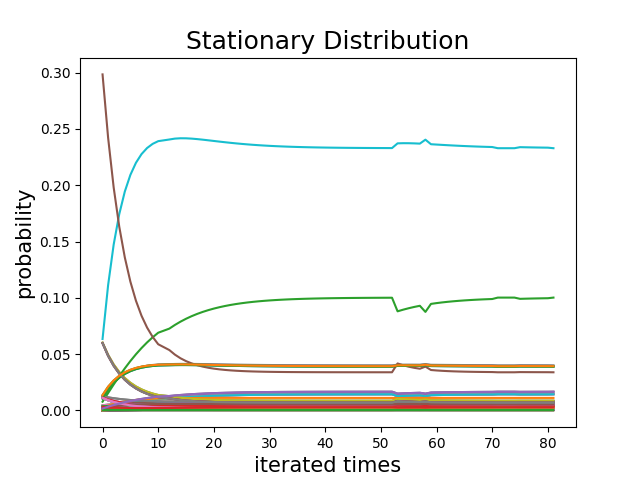
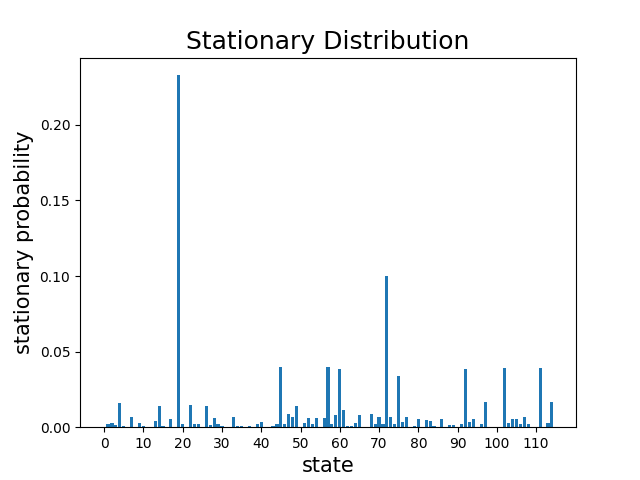
update

diff --git a/cdr_trajectories/test.py b/cdr_trajectories/test.py
@@ -3,7 +3,10 @@ Simulation
 ==========
 """
 
+"""
 import os
+
+from PIL.Image import ROTATE_90
 import numpy as np
 import pandas as pd
 import pyspark.sql.functions as F
@@ -11,10 +14,13 @@ import scipy.sparse as sparse
 import matplotlib.pyplot as plt
 from pyspark.sql import Window
 from numpy.linalg import matrix_power
-from cdr_trajectories.TM import Matrix
+from cdr_trajectories.TM import TM
 from cdr_trajectories.udfs import prepare_for_plot
 from cdr_trajectories.trajectories import time_inhomo_probabilistic_trajectories
 from cdr_trajectories.udfs import plot_vector
+from cdr_trajectories.constants import spark
+
+Matrix = prepare_for_plot(TM(time_inhomo_probabilistic_trajectories).make_tm(), 'updates').toarray().tolist()
 
 class Vectorization:
 
@@ -67,28 +73,36 @@ class Stationary:
 
 stationaryVector = Stationary(vector_data).process()
 
-stationaryVector.toPandas().to_csv(os.path.join('outputs/simulation', 'time_sd_3.csv'))
-plot_vector(stationaryVector, 'SD.png', 'Stationary Distribution', 'outputs/simulation')
+stationaryVector = stationaryVector.toPandas()
+# print(len(stationaryVector.index))
+test = stationaryVector['vector'][len(stationaryVector.index)-1]
+# stationaryVector = spark.createDataFrame()
+test1 = np.array([test])
+test2 = pd.DataFrame(test1)
+# print(list(test2.iloc[0]))
+# test2.to_csv('test2.csv')
+test2.plot(legend = None)
 
+plt.bar(x = list(test2.columns), height = list(test2.iloc[0]))
+plt.xticks(range(0, 114+1, 10))
+plt.savefig('test.png')
+# plot_vector(stationaryVector, 'SD.png', 'Stationary Distribution', 'outputs/simulation')
 
-
-
-def plot_vector(vector, fname, title, dirname):
+def plot_vector_bar(vector, fname, title, dirname):
 
     vector = vector.toPandas()
-    init_vector = vector['vector'][0]
-    vectorization = np.array([init_vector])
+    last_vector = vector['vector'][len(vector.index)-1]
+    vectorization = np.array([last_vector])
+    dfStationaryDist = pd.DataFrame(vectorization)
+    dfStationaryDist.plot(legend = None)
 
-    for x in range(1, len(vector.index)):
-        next_vectorization = np.array([vector['vector'][x]])
-        vectorization = np.append(vectorization, next_vectorization, axis = 0)
-        dfStationaryDist = pd.DataFrame(vectorization)
-        dfStationaryDist.plot(legend = None)
-    
-    plt.xlabel("iterated times", fontsize = 15)
-    plt.ylabel("probability", fontsize = 15)
+    plt.bar(x = list(dfStationaryDist.columns), height = list(dfStationaryDist.iloc[0]))
+    plt.xlabel("state", fontsize = 15)
+    plt.ylabel("stationary probability", fontsize = 15)
+    plt.xticks(range(0, 114+1, 10))
     plt.title(title, fontsize = 18)
     plt.savefig(os.path.join(dirname, fname))
+
 
 
 # stationaryVector = stationaryVector.toPandas()  
@@ -107,3 +121,4 @@ def plot_vector(vector, fname, title, dirname):
 # plt.savefig(os.path.join('outputs/', 'test.png'))
 
 
+"""

diff --git a/cdr_trajectories/main.py b/cdr_trajectories/main.py
@@ -10,7 +10,7 @@ import scipy.sparse as sparse
 from numpy.linalg import matrix_power
 from cdr_trajectories.TM import TM
 from cdr_trajectories.OD import OD
-from cdr_trajectories.udfs import prepare_for_plot, plot_sparse, plot_dense, plot_vector
+from cdr_trajectories.udfs import prepare_for_plot, plot_sparse, plot_dense, plot_vector, plot_vector_bar
 from cdr_trajectories.simulation import Vectorization, Stationary
 from cdr_trajectories.trajectories import deterministic_trajectories, oneRing_trajectories,\
 twoRing_trajectories, probabilistic_trajectories, time_inhomo_deterministic_trajectories,\
@@ -18,7 +18,7 @@ time_inhomo_probabilistic_trajectories
 
 
 
-# Deterministic Trajectories
+## DETERMINISTIC TRAJECTORIES
 
 tm_0 = TM(deterministic_trajectories).make_tm()
 plot_sparse(prepare_for_plot(tm_0, 'updates'), 'TM_0.png', 
@@ -28,7 +28,7 @@ plot_sparse(prepare_for_plot(tm_0, 'updates'), 'TM_0.png',
 
 
 
-#Probabilistic Trajectories
+## PROBABILISTIC TRAJECTORIES
 
 tm_1 = TM(oneRing_trajectories).make_tm()
 plot_dense(prepare_for_plot(tm_1, 'updates'), 'TM_1.png',
@@ -44,7 +44,7 @@ plot_dense(prepare_for_plot(tm_3, 'updates'), 'TM_3.png',
 
 
 
-# Time-inhomogeneous Trajectories
+## TIME-INHOMOGENEOUS TRAJECTORIES
 # Paremeters are subjected to change
 
 # Deterministic
@@ -64,14 +64,14 @@ time_tm_3.toPandas().to_csv(os.path.join('outputs/time_inhomo', 'time_tm_3.csv')
 
 
 
-# Origin-Destination Matrices
+## ORIGIN-DESTINATION MATRICES
 od = OD(probabilistic_trajectories).make_od()
 plot_dense(prepare_for_plot(od, 'updates'), 'OD.png',
           'Origin-Destination Matrix', 'outputs/od')
 
 
 
-# Simulation 
+## SIMULATION 
 
 # Stationary Distribution
 Matrix = prepare_for_plot(TM(time_inhomo_probabilistic_trajectories).make_tm(), 'updates').toarray().tolist()
@@ -99,8 +99,8 @@ vector_data = Vectorization(time_inhomo_probabilistic_trajectories).set_helpCols
 stationaryVector = Stationary(vector_data).process()
 
 stationaryVector.toPandas().to_csv(os.path.join('outputs/simulation', 'time_sd_3.csv'))
-plot_vector(stationaryVector, 'SD.png', 'Stationary Distribution', 'outputs/simulation')
-
+plot_vector(stationaryVector, 'SD_dev.png', 'Stationary Distribution', 'outputs/simulation')
+plot_vector_bar(stationaryVector, 'SD.png', 'Stationary Distribution', 'outputs/simulation')
 
 
 

diff --git a/cdr_trajectories/udfs.py b/cdr_trajectories/udfs.py
@@ -77,6 +77,23 @@ def plot_vector(vector, fname, title, dirname):
 
 
 
+def plot_vector_bar(vector, fname, title, dirname):
+
+    vector = vector.toPandas()
+    last_vector = vector['vector'][len(vector.index)-1]
+    vectorization = np.array([last_vector])
+    dfStationaryDist = pd.DataFrame(vectorization)
+    dfStationaryDist.plot(legend = None)
+
+    plt.bar(x = list(dfStationaryDist.columns), height = list(dfStationaryDist.iloc[0]))
+    plt.xlabel("state", fontsize = 15)
+    plt.ylabel("stationary probability", fontsize = 15)
+    plt.xticks(range(0, 114+1, 10))
+    plt.title(title, fontsize = 18)
+    plt.savefig(os.path.join(dirname, fname))
+
+
+
 
 
 
